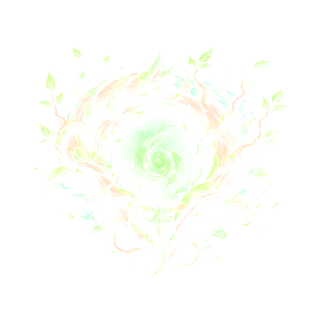
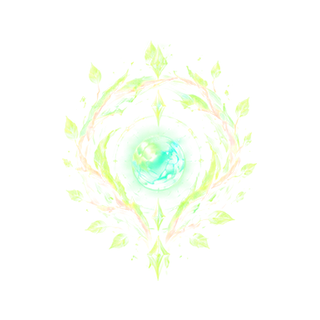
Actualise les blasons de niveau

diff --git a/index.html b/index.html
@@ -15,15 +15,15 @@
 <meta name="apple-mobile-web-app-status-bar-style" content="black-translucent"/>
 <!-- Injectée à la construction. Sans elle, « je suis à jour ? » n'a pas de
      réponse : on compare des symptômes au lieu de lire un numéro. -->
-<meta name="chrono-version" content="70"/>
+<meta name="chrono-version" content="71"/>
 <title>Chrono</title>
-<link rel="manifest" href="manifest.webmanifest?v=70"/>
+<link rel="manifest" href="manifest.webmanifest?v=71"/>
 <link rel="apple-touch-icon" href="apple-touch-icon.png?v=71"/>
-<link rel="icon" type="image/png" href="icon-192.png?v=70"/>
-<link rel="stylesheet" href="flip.css?v=70"/>
-<link rel="stylesheet" href="chrono.css?v=70"/>
-<link rel="stylesheet" href="suivi.css?v=70"/>
-<link rel="stylesheet" href="tableau.css?v=70"/>
+<link rel="icon" type="image/png" href="icon-192.png?v=71"/>
+<link rel="stylesheet" href="flip.css?v=71"/>
+<link rel="stylesheet" href="chrono.css?v=71"/>
+<link rel="stylesheet" href="suivi.css?v=71"/>
+<link rel="stylesheet" href="tableau.css?v=71"/>
 </head>
 <body>
 
@@ -142,7 +142,7 @@
 <div class="heure-coin" id="heure-coin" hidden></div>
 
 <!-- Signature de branding, comme en pied des autres applications NOIR. -->
-<img class="marque" src="brand.png?v=70" alt="NOIR">
+<img class="marque" src="brand.png?v=71" alt="NOIR">
 
 <!-- La face PORTRAIT : le tableau de progression. L'orientation choisit la
      face, et ce n'est pas un artifice — elle dit la posture. À l'horizontale,
@@ -214,13 +214,13 @@
        bas faisaient une bande morte de quarante pixels, et de soixante avec la
        zone sûre d'un iPhone. Le contenu s'arrêtait bien avant le bas de
        l'écran. Elle défile donc avec le reste, et se lit en fin de liste. -->
-  <img class="tab-marque" src="brand.png?v=70" alt="NOIR">
+  <img class="tab-marque" src="brand.png?v=71" alt="NOIR">
 </section>
 
-<script src="timer.js?v=70"></script>
-<script src="suivi.js?v=70"></script>
-<script src="suivi-ui.js?v=70"></script>
-<script src="tableau.js?v=70"></script>
-<script src="chrono.js?v=70"></script>
+<script src="timer.js?v=71"></script>
+<script src="suivi.js?v=71"></script>
+<script src="suivi-ui.js?v=71"></script>
+<script src="tableau.js?v=71"></script>
+<script src="chrono.js?v=71"></script>
 </body>
 </html>

diff --git a/sw.js b/sw.js
@@ -8,7 +8,7 @@
  *
  * Le numéro de version est injecté par tools/build_pwa.py.
  */
-const VERSION = '70';
+const VERSION = '71';
 const CACHE = 'chrono-v' + VERSION;
 
 // La liste est **produite par la construction** (`tools/build_pwa.py`), qui
